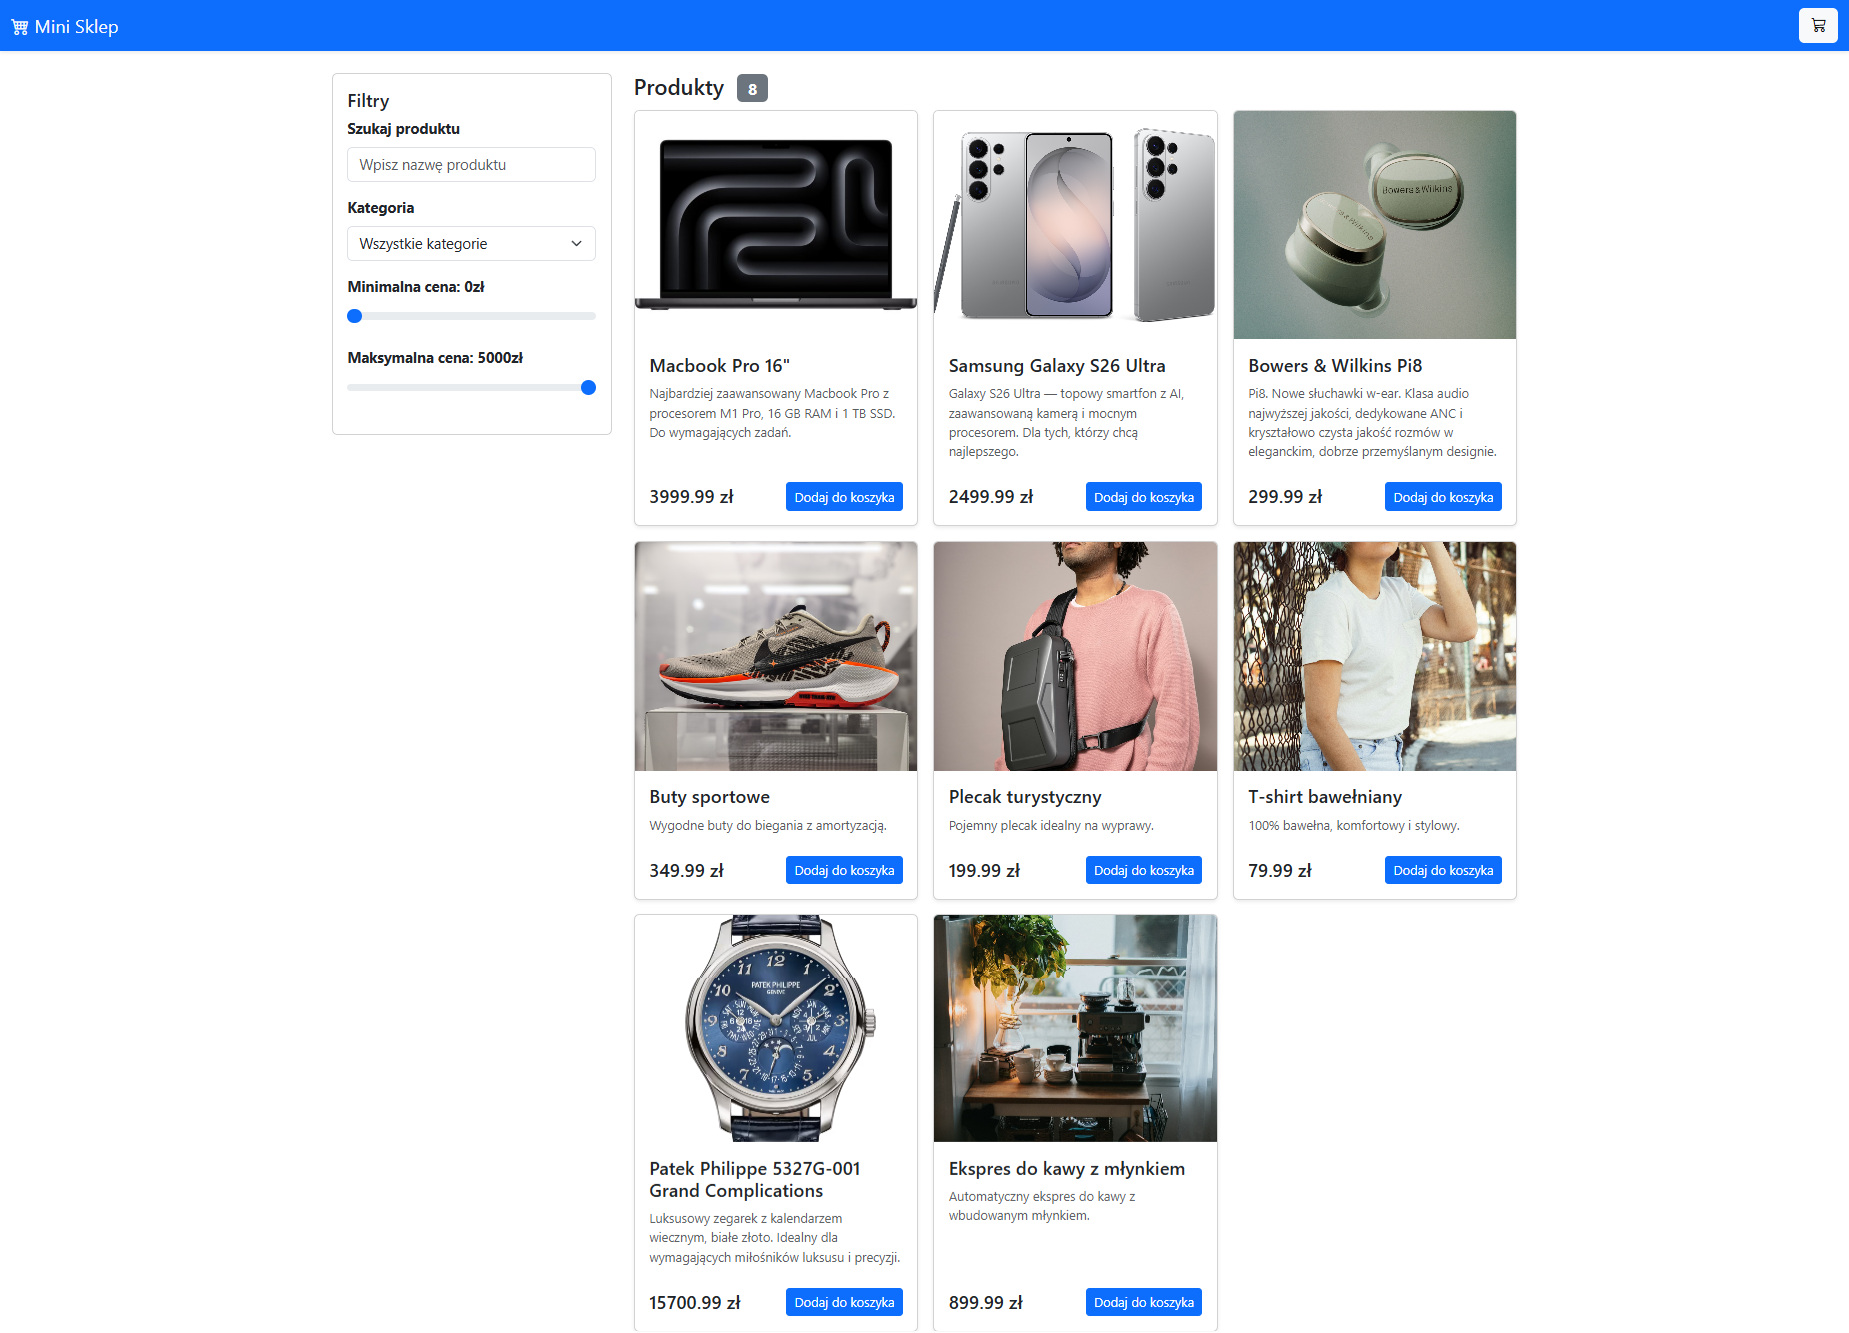
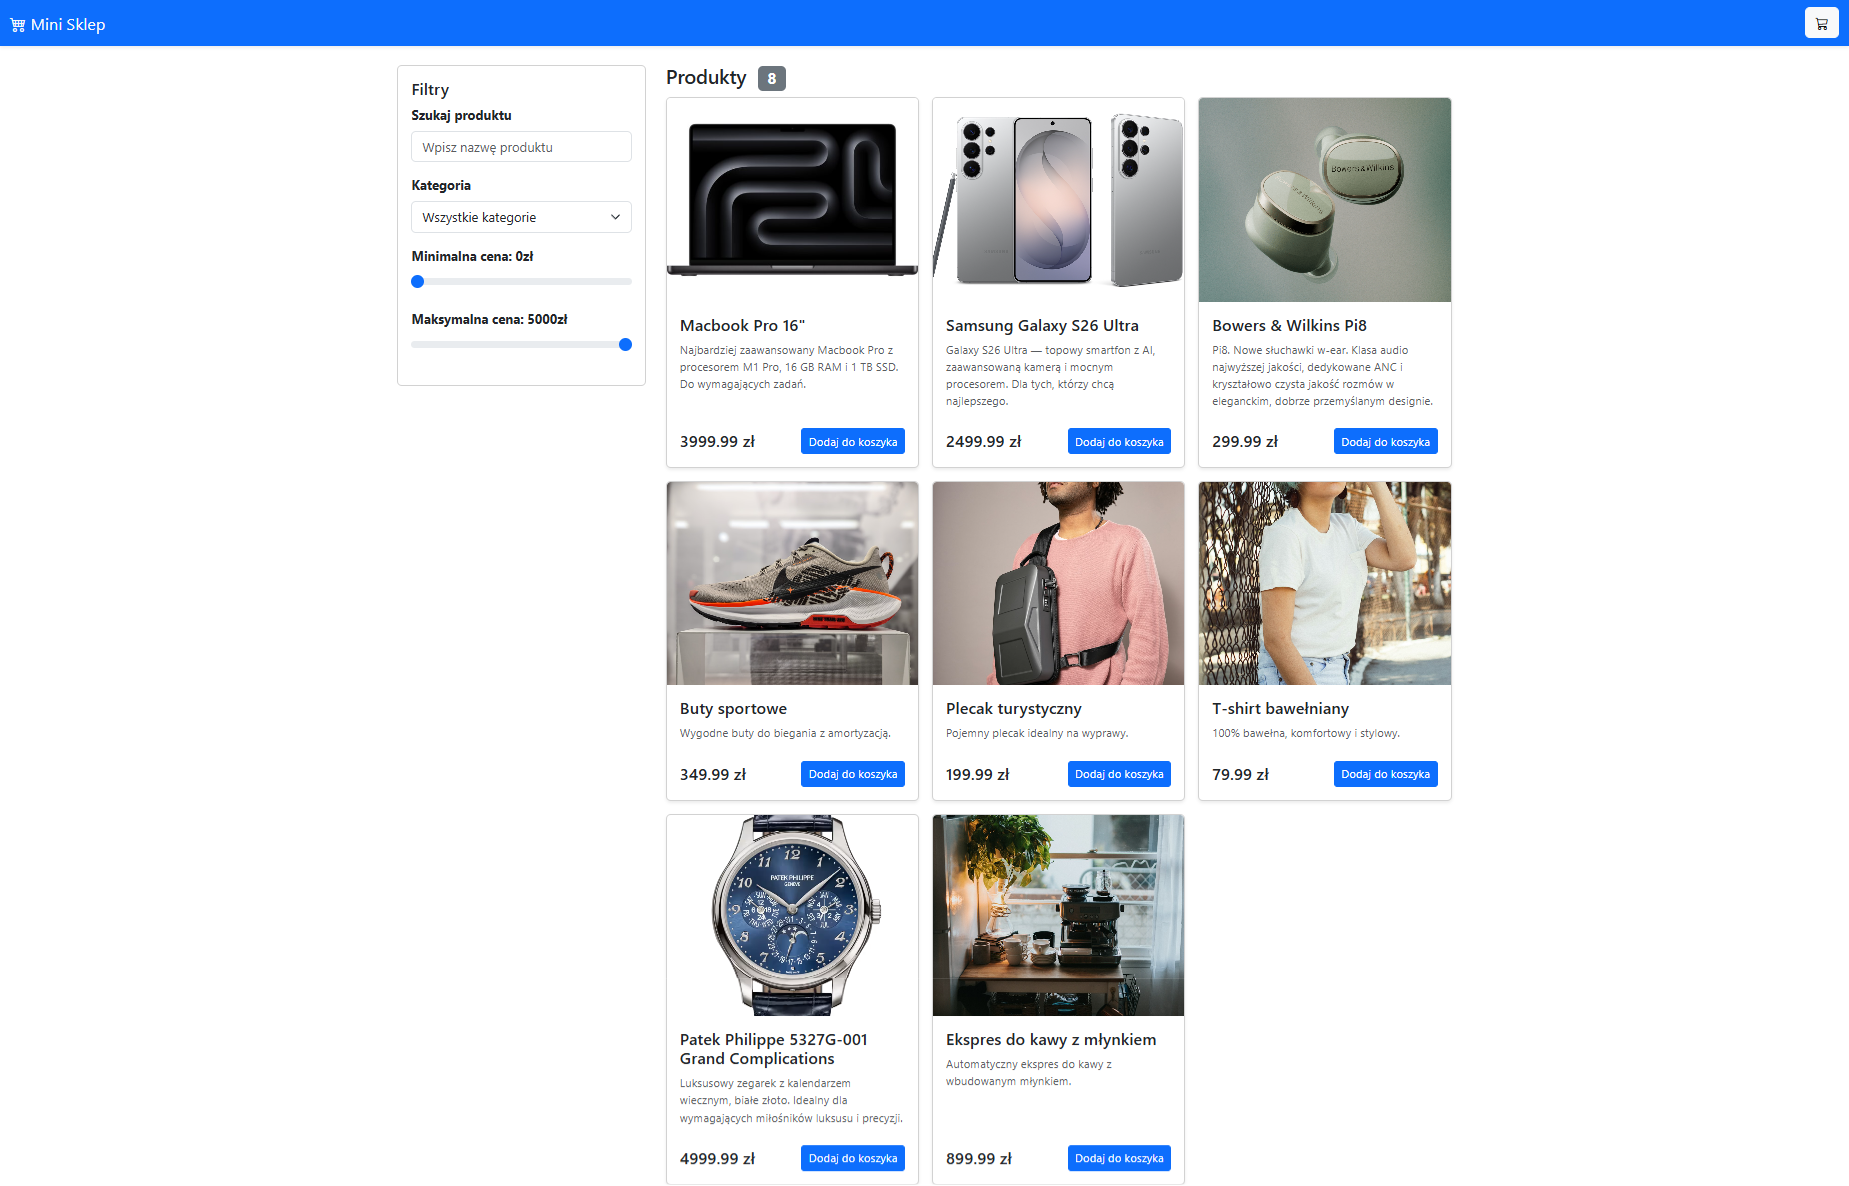
Update images

diff --git a/src/assets/data/products.ts b/src/assets/data/products.ts
@@ -52,7 +52,7 @@ export const PRODUCTS: Product[] = [
   {
     id: 7,
     name: 'Patek Philippe 5327G-001 Grand Complications',
-    price: 15700.99,
+    price: 4999.99,
     category: 'Akcesoria',
     description: 'Luksusowy zegarek z kalendarzem wiecznym, białe złoto. Idealny dla wymagających miłośników luksusu i precyzji.',
     image: 'images/patek_watch.jpg'
